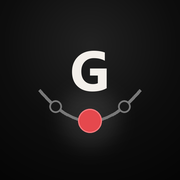
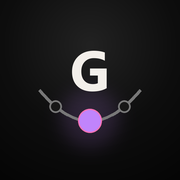
Detale w odcieniach różu i fioletu: każda sekcja ma swój odcień (kropka po tytule, ikona w przycisku menu i w menu, kropka bieżącej sekcji), gradient róż-fiolet w nazwie aplikacji, ikona z fioletową kropką; wersja 12

Changed region(s): [[0.4167, 0.5833, 0.5833, 0.75]]

diff --git a/css/look.css b/css/look.css
@@ -1,5 +1,5 @@
 /* Grochu life — wygląd jak Grochu Privates: Instrument Serif w tytułach i dużych liczbach, Geist w tekście,
-   Geist Mono w małych liczbach, spokojne płaskie kafle z cienką ramką. Paleta: czerń i szarości, kolor tylko w detalach (--pop).
+   Geist Mono w małych liczbach, spokojne płaskie kafle z cienką ramką. Paleta: czerń i szarości, detale w odcieniach różu i fioletu (--hue każdej sekcji).
    Wczytywany na końcu, więc nadpisuje style sekcji tylko w typografii i kształtach. */
 
 :root { --r-l: 24px; --r-xl: 28px; --line: rgba(255, 255, 255, .075); --line-2: rgba(255, 255, 255, .12); }
@@ -7,7 +7,7 @@ body { font-size: 15px; line-height: 1.5; text-rendering: optimizeLegibility; }
 
 /* ---------- tytuły: szeryf, kropka w kolorze akcentu ---------- */
 .sec-title { font-family: var(--serif); font-weight: 400; font-size: clamp(46px, 12vw, 64px); letter-spacing: -.02em; line-height: 1; }
-.sec-title::after { content: '.'; color: var(--pop); }
+.sec-title::after { content: '.'; color: var(--hue, var(--pop)); }
 .sec-head { padding-top: calc(26px + var(--safe-t)); padding-bottom: 18px; align-items: center; }
 .auth-brand h1 { font-family: var(--serif); font-weight: 400; font-size: 60px; letter-spacing: -.02em; line-height: 1; }
 .auth-brand h1 i { font-style: normal; color: var(--pop); }
@@ -67,3 +67,25 @@ body { font-size: 15px; line-height: 1.5; text-rendering: optimizeLegibility; }
 .bg-b { opacity: .25; }
 .btn-primary, .s-gym .primary, .seg::before { background: #3a3a3a; }
 .btn-primary:hover { background: #444; }
+
+
+/* ---------- róż i fiolet: każda sekcja ma swój odcień, widoczny tylko w drobiazgach ---------- */
+.s-gym, .dr-item[data-sec="gym"], body[data-sec="gym"] .menu-btn { --hue: #F472B6; }
+.s-habits, .dr-item[data-sec="habits"], body[data-sec="habits"] .menu-btn { --hue: #E879F9; }
+.s-diet, .dr-item[data-sec="diet"], body[data-sec="diet"] .menu-btn { --hue: #C084FC; }
+.s-recipes, .dr-item[data-sec="recipes"], body[data-sec="recipes"] .menu-btn { --hue: #A78BFA; }
+.s-verses, .dr-item[data-sec="verses"], body[data-sec="verses"] .menu-btn { --hue: #8B9CF9; }
+.s-account, .dr-item[data-sec="account"], body[data-sec="account"] .menu-btn { --hue: #F9A8D4; }
+/* kropki w nazwie aplikacji: gradient róż → fiolet */
+.dr-brand i, .auth-brand h1 i, .s-account .acc-ver em { background: var(--pop-grad); -webkit-background-clip: text; background-clip: text; color: transparent; }
+/* przycisk menu i lista: ikona bieżącej sekcji w jej odcieniu */
+.mb-ic svg { color: var(--hue); transition: color .4s; }
+.menu-btn { box-shadow: 0 14px 34px -14px rgba(0, 0, 0, .9), inset 0 1px 0 rgba(255, 255, 255, .06), 0 0 0 1px color-mix(in srgb, var(--hue, var(--pop)) 18%, transparent); }
+.dr-item:hover .dr-ic svg { color: var(--hue); }
+.dr-item.on .dr-ic { border-color: color-mix(in srgb, var(--hue) 45%, transparent); background: color-mix(in srgb, var(--hue) 12%, #1c1c1c); }
+.dr-item.on .dr-ic svg { color: var(--hue); }
+.dr-ic svg { transition: color .3s; }
+/* zaznaczone chipy i tło poświaty z nutą odcienia sekcji */
+.chip.on, .chip[aria-pressed="true"] { border-color: color-mix(in srgb, var(--hue, var(--pop)) 50%, transparent); }
+.bg-b { background: radial-gradient(circle, rgba(192, 132, 252, .14), transparent 65%) !important; opacity: .5 !important; }
+#gl-toast { border-color: color-mix(in srgb, var(--pop) 35%, transparent); }

diff --git a/index.html b/index.html
@@ -16,15 +16,15 @@
 <link rel="preconnect" href="https://fonts.googleapis.com">
 <link rel="preconnect" href="https://fonts.gstatic.com" crossorigin>
 <link rel="stylesheet" href="https://fonts.googleapis.com/css2?family=Geist:wght@400;500;600;700&family=Geist+Mono:wght@400;500;600&family=Instrument+Serif:ital@0;1&display=swap">
-<link rel="stylesheet" href="css/base.css?v=11">
-<link rel="stylesheet" href="css/shell.css?v=11">
-<link rel="stylesheet" href="css/sec-habits.css?v=11">
-<link rel="stylesheet" href="css/sec-diet.css?v=11">
-<link rel="stylesheet" href="css/sec-gym.css?v=11">
-<link rel="stylesheet" href="css/sec-recipes.css?v=11">
-<link rel="stylesheet" href="css/sec-verses.css?v=11">
-<link rel="stylesheet" href="css/sec-account.css?v=11">
-<link rel="stylesheet" href="css/look.css?v=11">
+<link rel="stylesheet" href="css/base.css?v=12">
+<link rel="stylesheet" href="css/shell.css?v=12">
+<link rel="stylesheet" href="css/sec-habits.css?v=12">
+<link rel="stylesheet" href="css/sec-diet.css?v=12">
+<link rel="stylesheet" href="css/sec-gym.css?v=12">
+<link rel="stylesheet" href="css/sec-recipes.css?v=12">
+<link rel="stylesheet" href="css/sec-verses.css?v=12">
+<link rel="stylesheet" href="css/sec-account.css?v=12">
+<link rel="stylesheet" href="css/look.css?v=12">
 </head>
 <body>
 <div class="bg" aria-hidden="true"><i class="bg-a"></i><i class="bg-b"></i><i class="bg-c"></i></div>
@@ -57,14 +57,14 @@
 <aside class="drawer" id="drawer" aria-hidden="true" aria-label="Menu sekcji"></aside>
 <div class="layers" id="layers"></div>
 
-<script src="js/core.js?v=11"></script>
-<script src="js/gym-exercises.js?v=11"></script>
-<script src="js/gym-exercises-pl.js?v=11"></script>
-<script src="js/sec-gym.js?v=11"></script>
-<script src="js/sec-habits.js?v=11"></script>
-<script src="js/sec-diet.js?v=11"></script>
-<script src="js/sec-recipes.js?v=11"></script>
-<script src="js/sec-verses.js?v=11"></script>
-<script src="js/sec-account.js?v=11"></script>
+<script src="js/core.js?v=12"></script>
+<script src="js/gym-exercises.js?v=12"></script>
+<script src="js/gym-exercises-pl.js?v=12"></script>
+<script src="js/sec-gym.js?v=12"></script>
+<script src="js/sec-habits.js?v=12"></script>
+<script src="js/sec-diet.js?v=12"></script>
+<script src="js/sec-recipes.js?v=12"></script>
+<script src="js/sec-verses.js?v=12"></script>
+<script src="js/sec-account.js?v=12"></script>
 </body>
 </html>

diff --git a/sw.js b/sw.js
@@ -1,27 +1,27 @@
 /* Grochu life — service worker: aplikacja działa offline. Dane zostają w localStorage, tu tylko pliki aplikacji. */
-const VERSION = 'v11';
+const VERSION = 'v12';
 const CACHE = `glife-${VERSION}`;
 const SHELL = [
   './',
   'index.html',
-  'css/base.css?v=11',
-  'css/shell.css?v=11',
-  'css/sec-habits.css?v=11',
-  'css/sec-diet.css?v=11',
-  'css/sec-gym.css?v=11',
-  'css/sec-recipes.css?v=11',
-  'css/sec-verses.css?v=11',
-  'css/sec-account.css?v=11',
-  'css/look.css?v=11',
-  'js/core.js?v=11',
-  'js/gym-exercises.js?v=11',
-  'js/gym-exercises-pl.js?v=11',
-  'js/sec-gym.js?v=11',
-  'js/sec-habits.js?v=11',
-  'js/sec-diet.js?v=11',
-  'js/sec-recipes.js?v=11',
-  'js/sec-verses.js?v=11',
-  'js/sec-account.js?v=11',
+  'css/base.css?v=12',
+  'css/shell.css?v=12',
+  'css/sec-habits.css?v=12',
+  'css/sec-diet.css?v=12',
+  'css/sec-gym.css?v=12',
+  'css/sec-recipes.css?v=12',
+  'css/sec-verses.css?v=12',
+  'css/sec-account.css?v=12',
+  'css/look.css?v=12',
+  'js/core.js?v=12',
+  'js/gym-exercises.js?v=12',
+  'js/gym-exercises-pl.js?v=12',
+  'js/sec-gym.js?v=12',
+  'js/sec-habits.js?v=12',
+  'js/sec-diet.js?v=12',
+  'js/sec-recipes.js?v=12',
+  'js/sec-verses.js?v=12',
+  'js/sec-account.js?v=12',
   'manifest.webmanifest',
   'icons/favicon.png',
   'icons/icon-192.png',

diff --git a/css/base.css b/css/base.css
@@ -11,7 +11,9 @@
   --crimson-hi: #ededed;      /* jasny akcent na tekst i cienkie linie */
   --crimson-lo: rgba(255, 255, 255, 0.081);
   --crimson-glow: rgba(0, 0, 0, .6);
-  --pop: #E5484D;              /* jedyny mocny kolor: małe detale (kropka po tytule, kropka przy bieżącej sekcji w menu) */
+  --pop: #A78BFA;              /* detale: odcienie różu i fioletu, każda sekcja ma swój (--hue, css/look.css) */
+  --pop-2: #F472B6;
+  --pop-grad: linear-gradient(135deg, #F472B6, #C084FC 55%, #818CF8);
   --bg: var(--forest);
   --surface: var(--coal);
   --surface-2: var(--coal-2);
@@ -44,7 +46,7 @@ body { overflow: hidden; overscroll-behavior: none; touch-action: manipulation; 
 button, input, select, textarea { font: inherit; color: inherit; }
 button { cursor: pointer; background: none; border: 0; padding: 0; }
 button:disabled { cursor: default; }
-:focus-visible { outline: 2px solid var(--crimson-hi); outline-offset: 2px; border-radius: 8px; }
+:focus-visible { outline: 2px solid var(--pop); outline-offset: 2px; border-radius: 8px; }
 img, svg { display: block; }
 [hidden] { display: none !important; }
 .mono, .num { font-family: var(--mono); font-variant-numeric: tabular-nums; }

diff --git a/css/shell.css b/css/shell.css
@@ -59,7 +59,7 @@ body.menu-drag .drawer, body.menu-drag .scrim, body.menu-drag .stage { transitio
 .dr-item:active { transform: scale(.97); }
 .dr-ic { width: 46px; height: 46px; border-radius: 15px; display: grid; place-items: center; background: var(--surface-2); border: 1px solid var(--line); transition: background .3s, border-color .3s; }
 .dr-ic svg { width: 22px; height: 22px; }
-.dr-dot { width: 7px; height: 7px; border-radius: 50%; background: var(--pop); box-shadow: 0 0 10px rgba(229, 72, 77, .8); transform: scale(0); transition: transform .45s var(--spring); }
+.dr-dot { width: 7px; height: 7px; border-radius: 50%; background: var(--hue, var(--pop)); box-shadow: 0 0 12px color-mix(in srgb, var(--hue, var(--pop)) 80%, transparent); transform: scale(0); transition: transform .45s var(--spring); }
 .dr-item.on { background: rgba(255, 255, 255, .065); color: var(--text); }
 .dr-item.on .dr-ic { background: #2c2c2c; border-color: var(--line-2); }
 .dr-item.on .dr-dot { transform: scale(1); }

diff --git a/js/core.js b/js/core.js
@@ -311,7 +311,7 @@
     const list = drawer.querySelector('.dr-list');
     items = sections.map((s, i) => {
       const b = document.createElement('button');
-      b.type = 'button'; b.className = 'dr-item'; b.style.setProperty('--i', i);
+      b.type = 'button'; b.className = 'dr-item'; b.dataset.sec = s.id; b.style.setProperty('--i', i);
       b.innerHTML = `<span class="dr-ic">${s.icon}</span><span class="dr-l">${esc(s.label)}</span><i class="dr-dot" aria-hidden="true"></i>${HAP}`;
       b.addEventListener('click', e => { if (e.target.tagName === 'INPUT') return; haptic(6); goTo(i); });
       list.appendChild(b);

diff --git a/js/sec-account.js b/js/sec-account.js
@@ -1,7 +1,7 @@
 /* Grochu life — sekcja Konto: e-mail, ustawienia sekcji (GL.settings), stan synchronizacji, wylogowanie. */
 (() => {
   'use strict';
-  const VERSION = 11;
+  const VERSION = 12;
   const NAMES = { gym: 'Siłownia', habits: 'Nawyki', diet: 'Dieta', recipes: 'Przepisy', verses: 'Wersety' };
   const STATUS = { idle: 'czeka', syncing: 'wysyłam…', ok: 'zsynchronizowane', offline: 'offline', error: 'błąd' };
 
